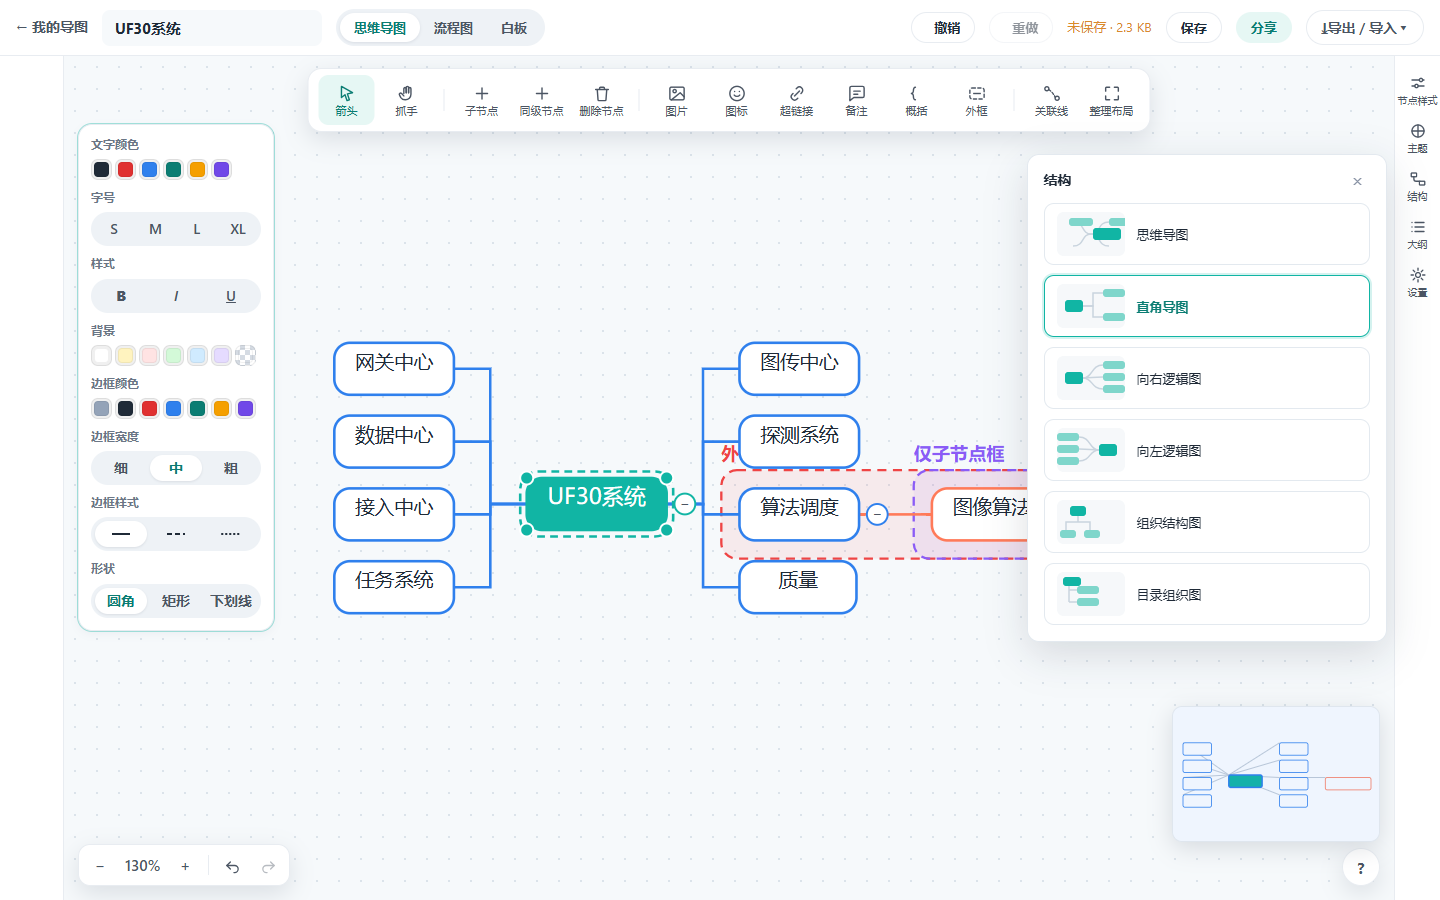
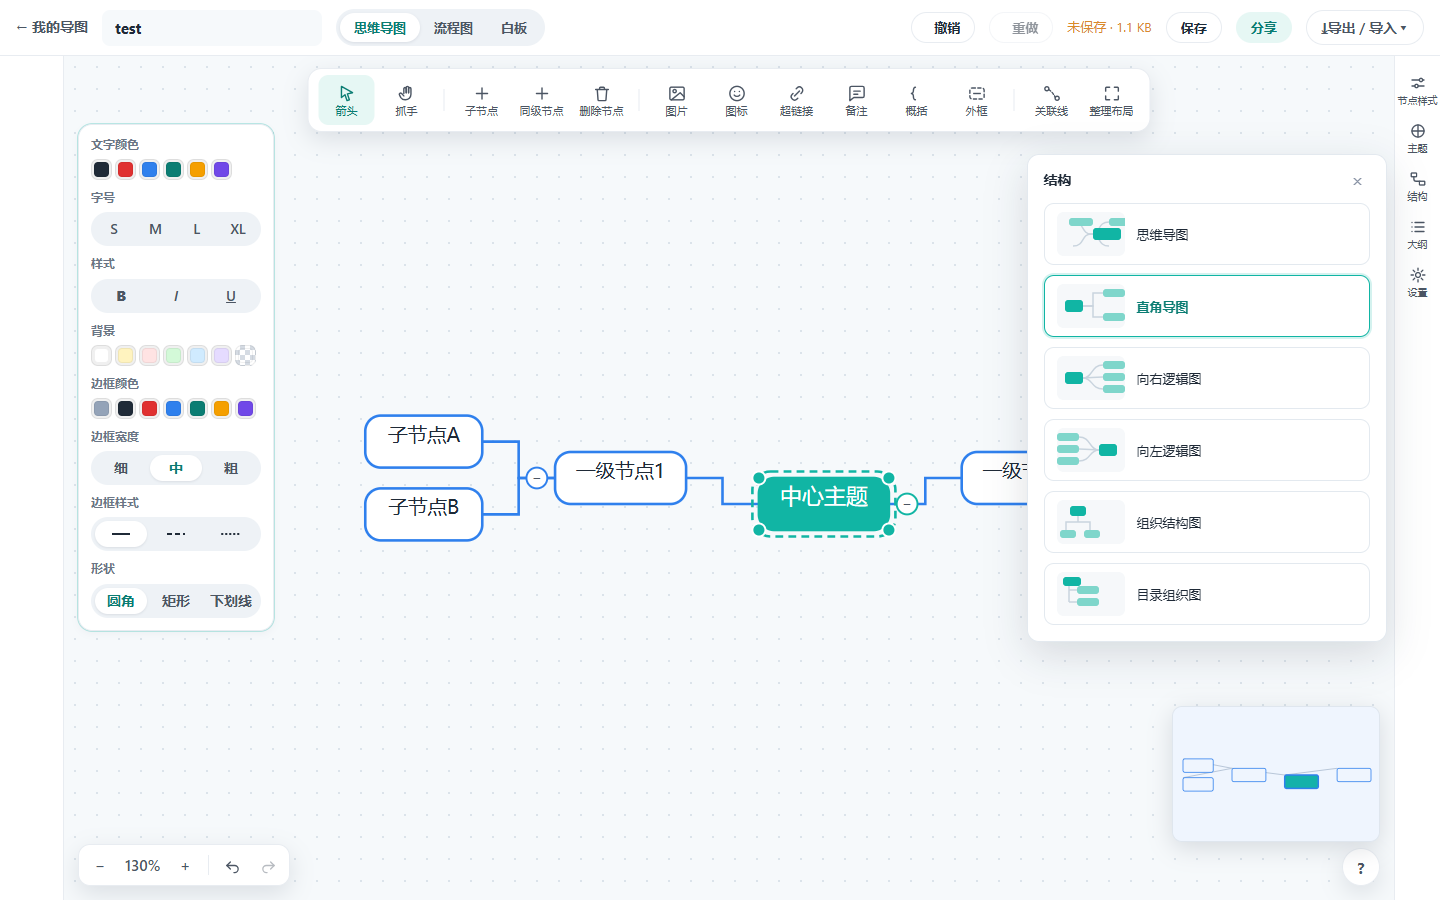
feat(outline): 大纲改为点击定位节点的只读列表，去掉应用/取消
1. 大纲面板去掉 textarea 与「应用/取消」，改为按层级缩进的只读列表（保留关闭×，再点侧栏大纲图标也可关闭）
2. 点击任意一行：自动展开被收起的祖先分支 -> 选中该节点 -> 视图居中定位；当前选中节点所在行高亮并自动滚入可视区
3. 大纲随画布实时刷新（canvas 新增 onRender 订阅机制，按节点签名去重重建列表）
4. 列表项显示节点色点、层级缩进与折叠标记

无头验证 round8 14/14 + round5 回归 9/9 全通过

diff --git a/assets/js/editor/outline.js b/assets/js/editor/outline.js
@@ -1,72 +1,115 @@
-// 大纲模式：思维导图 <-> 大纲 双向编辑（仅思维导图类型）
-import { layoutMindmap } from "./mindmap.js";
-import { newId } from "./model.js";
+// 大纲面板：快速定位节点（只读列表，点击某行即选中并居中显示该节点；不再有应用/取消）
+import { sizeOf } from "./model.js";
 
 export function openOutline(editor) {
   const old = editor.container.querySelector(".gm-outline");
-  if (old) old.remove();
-  if (editor.doc.type !== "mindmap") { alert("大纲模式仅支持思维导图"); return; }
+  if (old) { old.remove(); return; } // 再点一次大纲图标 = 关闭
+  if (editor.doc.type !== "mindmap") { alert("大纲仅支持思维导图"); return; }
 
   const panel = document.createElement("div");
   panel.className = "gm-outline";
-  const ta = document.createElement("textarea");
-  ta.value = toOutline(editor.doc);
-  ta.spellcheck = false;
-
-  const head = document.createElement("div");
-  head.className = "gm-outline-head";
-  head.innerHTML = `<b>大纲模式</b><span>每行一个节点，缩进（每 2 空格）表示层级。编辑后点「应用」。</span>`;
-  const bar = document.createElement("div");
-  bar.className = "gm-outline-bar";
-  const apply = document.createElement("button");
-  apply.className = "btn btn-primary btn-sm"; apply.textContent = "应用";
-  const close = document.createElement("button");
-  close.className = "btn btn-ghost btn-sm"; close.textContent = "关闭";
-  bar.appendChild(apply); bar.appendChild(close);
-
-  panel.appendChild(head); panel.appendChild(ta); panel.appendChild(bar);
+  panel.innerHTML =
+    `<div class="gm-outline-head">` +
+    `<div><b>大纲</b><span>点击任意一行即可定位到画布上的节点</span></div>` +
+    `<button class="gm-outline-x" title="关闭大纲">×</button>` +
+    `</div>` +
+    `<div class="gm-outline-list"></div>`;
+  const list = panel.querySelector(".gm-outline-list");
   editor.container.appendChild(panel);
 
-  apply.addEventListener("click", () => { applyOutline(editor, ta.value); panel.remove(); });
-  close.addEventListener("click", () => panel.remove());
+  let lastSig = "";
+  let unsub = null;
+
+  // 当前选中节点（第一个）用于行高亮
+  const activeId = () => {
+    for (const k of editor.selection) if (!String(k).startsWith("e:") && !String(k).startsWith("g:")) return k;
+    return null;
+  };
+
+  function build() {
+    const sig = editor.doc.nodes.map((n) => `${n.id}:${n.parentId}:${n.text}:${n.collapsed ? 1 : 0}`).join("|");
+    const sel = activeId();
+    if (sig !== lastSig) {
+      lastSig = sig;
+      const rows = flatten(editor.doc);
+      list.innerHTML = "";
+      for (const r of rows) {
+        const b = document.createElement("button");
+        b.className = "gm-outline-item" + (r.node.id === sel ? " active" : "");
+        b.dataset.id = r.node.id;
+        b.style.paddingLeft = 10 + r.depth * 16 + "px";
+        b.innerHTML = `<span class="dot" style="background:${escapeAttr(r.node.stroke || "#11b5a4")}"></span>` +
+          `<span class="txt">${escapeHtml(r.node.text || "（空节点）")}</span>` +
+          (r.hasKids ? `<span class="fold">${r.node.collapsed ? "▸" : "▾"}</span>` : "");
+        b.addEventListener("click", () => locate(r.node.id));
+        list.appendChild(b);
+      }
+    }
+    // 高亮同步 + 选中行滚到可视区
+    let activeEl = null;
+    list.querySelectorAll(".gm-outline-item").forEach((el) => {
+      const on = el.dataset.id === sel;
+      el.classList.toggle("active", on);
+      if (on) activeEl = el;
+    });
+    if (activeEl) activeEl.scrollIntoView({ block: "nearest" });
+  }
+
+  // 点击某行：展开祖先（若在收起的分支里）-> 选中节点 -> 视图居中
+  function locate(id) {
+    const n = editor.nodeById(id);
+    if (!n) return;
+    let p = n.parentId ? editor.nodeById(n.parentId) : null;
+    let expanded = false;
+    while (p) {
+      if (p.collapsed) { p.collapsed = false; expanded = true; }
+      p = p.parentId ? editor.nodeById(p.parentId) : null;
+    }
+    editor.selection = new Set([id]);
+    const s = editor.sizes.get(id) || sizeOf(n, "mindmap");
+    const r = editor.rect();
+    editor.view.x = r.width / 2 - (n.x + s.w / 2) * editor.view.scale;
+    editor.view.y = r.height / 2 - (n.y + s.h / 2) * editor.view.scale;
+    editor.render();
+    if (expanded) editor.pushHistory();
+    // 定位行高亮
+    list.querySelectorAll(".gm-outline-item").forEach((el) => el.classList.toggle("active", el.dataset.id === id));
+  }
+
+  function close() {
+    if (unsub) unsub();
+    panel.remove();
+  }
+  panel.querySelector(".gm-outline-x").addEventListener("click", close);
+  document.addEventListener("keydown", function onEsc(e) {
+    if (e.key === "Escape") { close(); document.removeEventListener("keydown", onEsc); }
+  });
+
+  unsub = editor.onRender(build);
+  build();
 }
 
-function toOutline(doc) {
-  const children = new Map();
+// 按层级展开成行（含折叠分支内的节点，便于定位）
+function flatten(doc) {
+  const kids = new Map();
   const roots = [];
   for (const n of doc.nodes) {
     if (n.parentId == null) roots.push(n);
-    else { if (!children.has(n.parentId)) children.set(n.parentId, []); children.get(n.parentId).push(n); }
+    else { if (!kids.has(n.parentId)) kids.set(n.parentId, []); kids.get(n.parentId).push(n); }
   }
-  let out = "";
-  function walk(n, depth) {
-    out += "  ".repeat(depth) + (n.text || "") + "\n";
-    for (const c of children.get(n.id) || []) walk(c, depth + 1);
-  }
+  const out = [];
+  const walk = (n, depth) => {
+    const children = kids.get(n.id) || [];
+    out.push({ node: n, depth, hasKids: children.length > 0 });
+    for (const c of children) walk(c, depth + 1);
+  };
   for (const r of roots) walk(r, 0);
   return out;
 }
 
-function applyOutline(editor, text) {
-  const nodes = [];
-  const stack = [];
-  for (const raw of text.split("\n")) {
-    if (raw.trim() === "") continue;
-    const lead = (raw.match(/^\s*/)[0] || "").length;
-    const depth = Math.floor(lead / 2);
-    const txt = raw.trim();
-    const node = { id: newId(), text: txt, shape: "rounded", color: "#fff", textColor: "#1f2a37", stroke: "#11b5a4", fontSize: 15, parentId: null, collapsed: false, x: 0, y: 0, w: 124, h: 44 };
-    while (stack.length && stack[stack.length - 1].depth >= depth) stack.pop();
-    const parent = stack.length ? stack[stack.length - 1].node : null;
-    node.parentId = parent ? parent.id : null;
-    if (parent) node.stroke = parent.stroke;
-    nodes.push(node);
-    stack.push({ depth, node });
-  }
-  editor.doc.nodes = nodes;
-  editor.doc.edges = [];
-  layoutMindmap(editor.doc);
-  editor.selection.clear();
-  editor.render();
-  editor.onChange();
+function escapeHtml(s) {
+  return String(s).replace(/[&<>]/g, (c) => ({ "&": "&amp;", "<": "&lt;", ">": "&gt;" }[c]));
+}
+function escapeAttr(s) {
+  return String(s).replace(/["<>]/g, (c) => ({ '"': "&quot;", "<": "&lt;", ">": "&gt;" }[c]));
 }

diff --git a/assets/css/editor.css b/assets/css/editor.css
@@ -579,3 +579,26 @@ body.gm-zen .gm-right { display: none !important; }
 .gm-edge-handle-hit:active { cursor: grabbing; }
 .gm-edge-handle-hit { cursor: grab; }
 .gm-edge-handle-hit:active { cursor: grabbing; }
+
+/* ---------- 大纲面板（定位用只读列表） ---------- */
+.gm-outline-head { display: flex; align-items: flex-start; justify-content: space-between; gap: 8px; }
+.gm-outline-head span { display: block; margin-top: 4px; }
+.gm-outline-x {
+  border: none; background: transparent; color: #8a94a6; font-size: 20px; line-height: 1;
+  width: 28px; height: 28px; border-radius: 8px; cursor: pointer; flex: none;
+}
+.gm-outline-x:hover { background: #f1f4f8; color: #1f2a37; }
+.gm-outline-list {
+  flex: 1; overflow: auto; border: 1px solid #e8ecf1; border-radius: 10px; padding: 6px; background: #fcfdfe;
+}
+.gm-outline-item {
+  display: flex; align-items: center; gap: 6px; width: 100%;
+  border: none; background: transparent; border-radius: 8px;
+  padding: 6px 10px; cursor: pointer; text-align: left;
+  font-size: 13px; color: #334155; line-height: 1.5;
+}
+.gm-outline-item:hover { background: #eef6f5; }
+.gm-outline-item.active { background: #dcf5f1; color: #0b7d73; font-weight: 600; }
+.gm-outline-item .dot { width: 6px; height: 6px; border-radius: 50%; flex: none; opacity: .85; }
+.gm-outline-item .txt { flex: 1; overflow: hidden; text-overflow: ellipsis; white-space: nowrap; }
+.gm-outline-item .fold { flex: none; font-size: 10px; color: #9aa6b5; }

diff --git a/assets/js/editor/canvas.js b/assets/js/editor/canvas.js
@@ -46,6 +46,7 @@ export class Editor {
     this._marquee = null; this._laserDown = false;
     this._onToolChange = opts.onToolChange || null;
     this._onRender = opts.onRender || null;       // 每次渲染后回调（小地图等外部组件同步）
+    this._renderListeners = new Set();            // 外部订阅渲染（大纲面板随文档/选中刷新）
     // 编辑器行为设置（侧栏「设置」面板驱动，main.js 持久化）
     this.autoEditNewNode = true;  // 新节点自动进入文字编辑
     this.dblClickCreate = false;  // 双击空白处创建子节点（脑图）
@@ -307,6 +308,14 @@ export class Editor {
     const sig = this.mode + "|" + this.tool + "|" + [...this.selection].sort().join(",");
     if (sig !== this._lastUiSig) { this._lastUiSig = sig; if (this._onSelectionChange) this._onSelectionChange(); }
     if (this._onRender) this._onRender();
+    // 外部订阅者（大纲面板等）：随文档/选中状态实时同步，异常不影响渲染
+    if (this._renderListeners.size) for (const fn of [...this._renderListeners]) { try { fn(); } catch (_) {} }
+  }
+
+  // 订阅渲染回调（返回取消订阅函数）
+  onRender(fn) {
+    this._renderListeners.add(fn);
+    return () => this._renderListeners.delete(fn);
   }
 
   // ---------- 白板图形属性辅助 ----------
